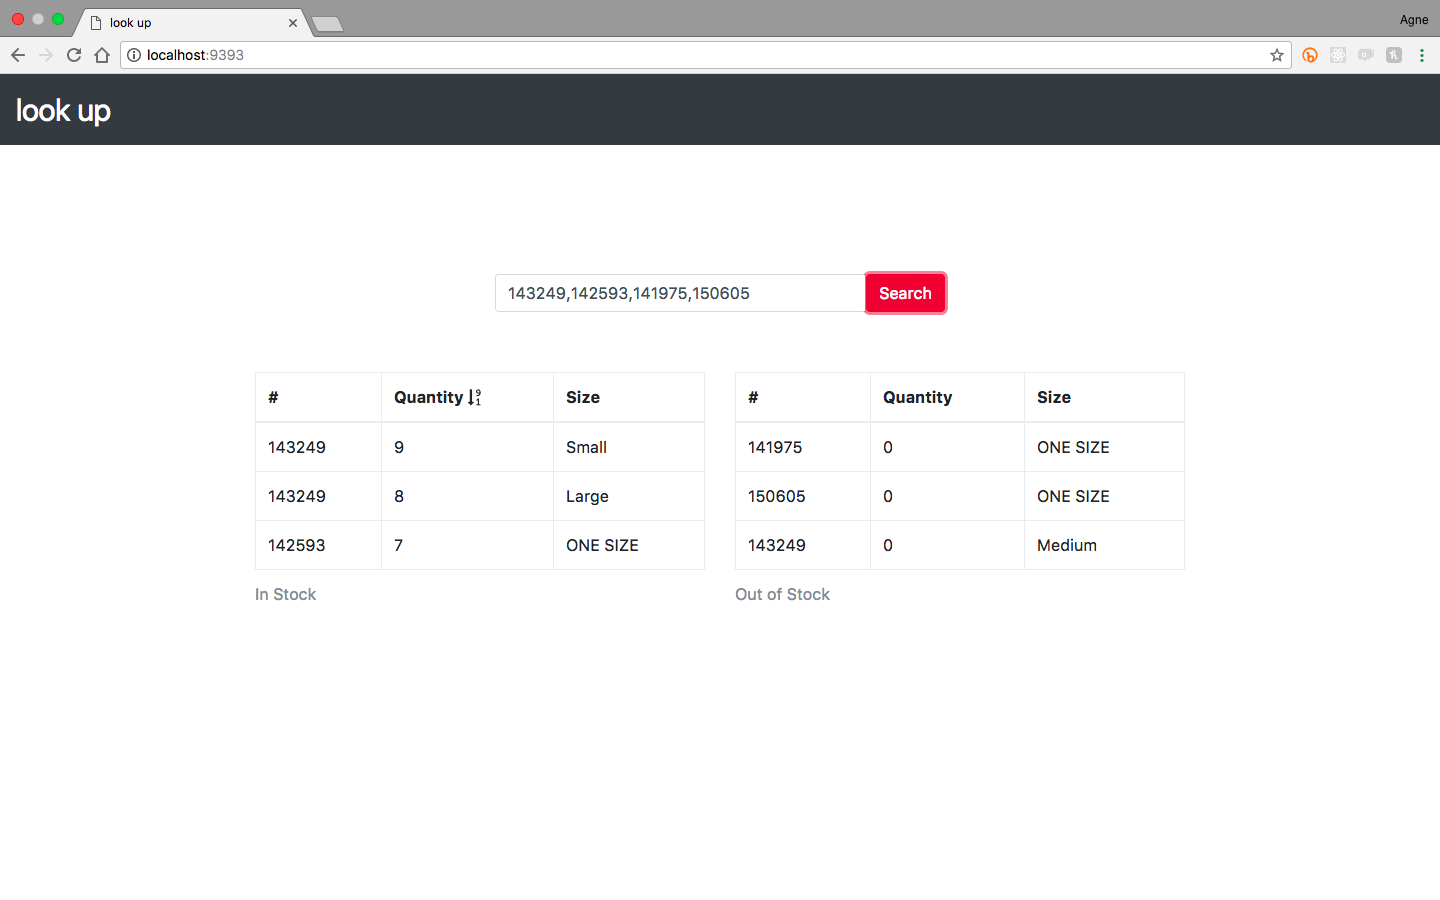
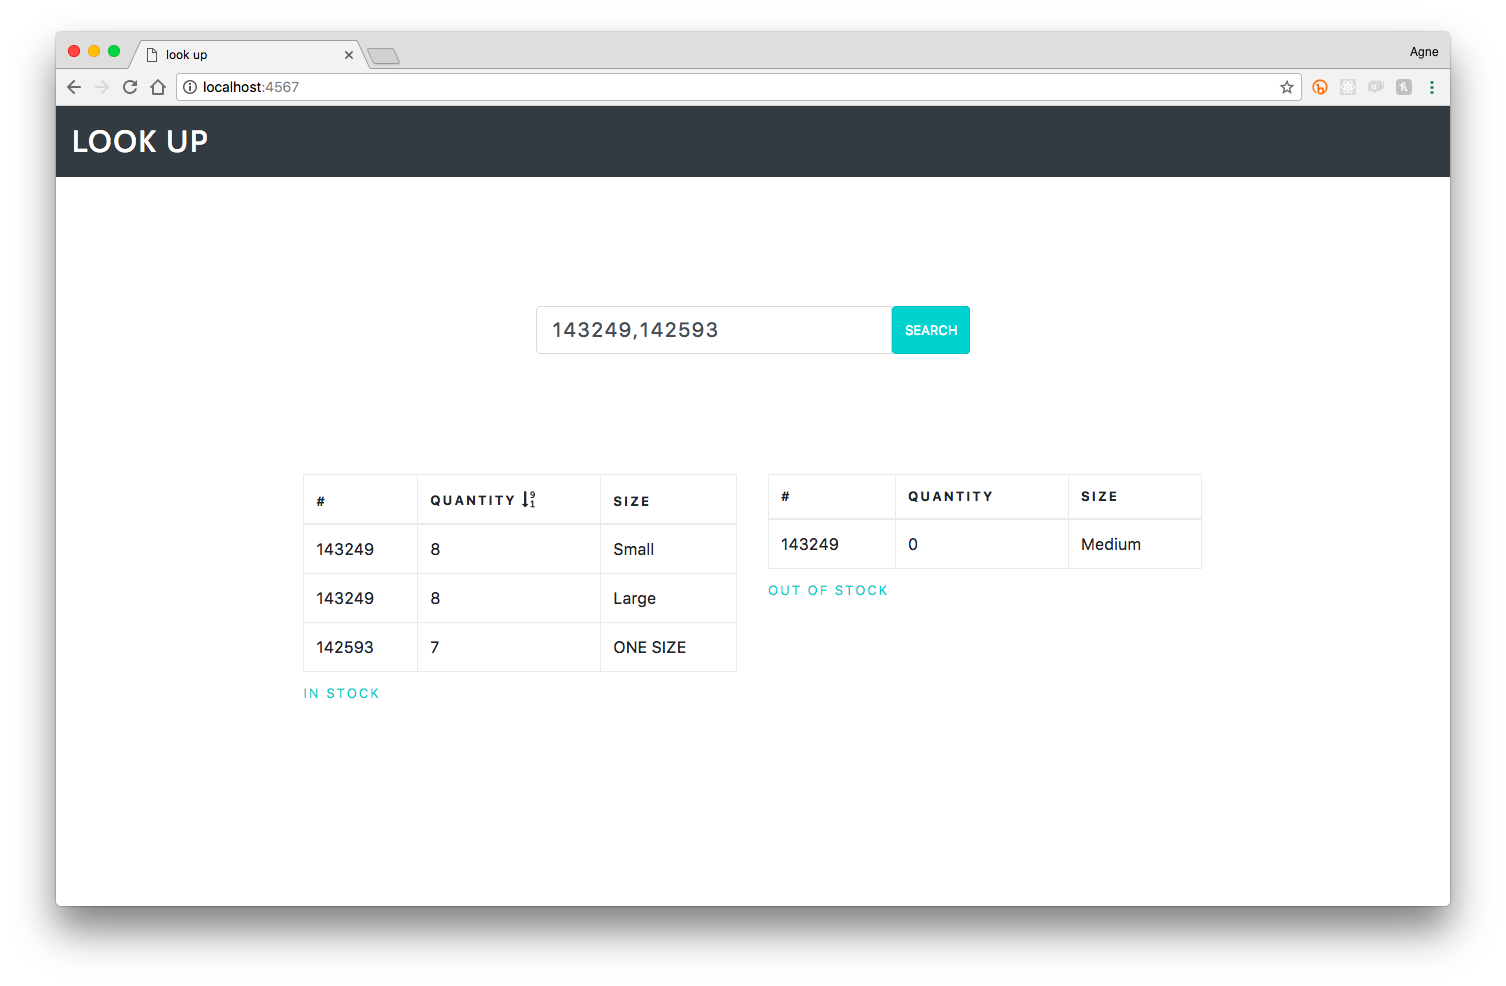
updated style

diff --git a/public/css/style.css b/public/css/style.css
@@ -1,36 +1,95 @@
 .navbar-brand {
   font-weight: 400;
   font-size: 30px;
+  text-transform: uppercase;
+  font-family: 'Cabin', sans-serif;
+  letter-spacing: 2px;
+}
+
+.btn-search {
+  cursor: pointer;
+  text-transform: uppercase;
+  font-size: 13px;
+  background-color: #39CCCC;
+  border-color: #2CBFBF;
+}
+
+.btn-search:focus,
+.btn-danger:focus {
+  box-shadow: none;
+}
+
+.btn-search:hover {
+  background-color: #22B5B5;
+  border-color: #22B5B5;
 }
 
 .alert-warning {
-  margin-top: 80px;
+  margin-top: 100px;
   padding-bottom: 0;
   position: absolute;
-  background-color: mistyrose;
+  background-color: #DDD;
   border: none;
-  color: #666;
+  color: #111;
 }
 
 .flash {
   padding-top: 5px;
   text-align: center;
+  text-transform: uppercase;
+  letter-spacing: 2px;
+  font-size: 13px;
 }
 
 form {
   margin-top: 200px;
+  margin-bottom: 60px;
+}
+
+.form-control:focus {
+  border-color: #39CCCC;
+}
+
+::-webkit-input-placeholder,
+.form-control {
+  text-transform: uppercase;
+  letter-spacing: 2px;
+  font-size: 13px;
 }
 
 .tables {
   margin-top: 60px;
 }
 
+.table caption {
+  text-transform: uppercase;
+  letter-spacing: 2px;
+  font-size: 13px;
+  color: #39CCCC;
+}
+
+.table th {
+  text-transform: uppercase;
+  letter-spacing: 2px;
+  font-size: 13px;
+}
+
 .btn-sort {
   cursor: pointer;
+  font-size: 16px;
+}
+
+.btn-sort:hover {
+  color: #39CCCC;
 }
 
 .load-img {
-  color: lightpink;
+  color: #39CCCC;
   display: none;
   margin: 0 auto;
+  padding: 0;
+}
+
+.close {
+  cursor: pointer;
 }

diff --git a/public/js/script.js b/public/js/script.js
@@ -5,9 +5,9 @@ $(document).ready(function() {
   })
 
   // On click of search
-  $('.btn-find').click(evt => {
+  $('.btn-search').click(evt => {
     evt.preventDefault();
-  
+
     closeFlash();
     loading(true);
     const products = $('.products').val().replace(/ /g,'');
